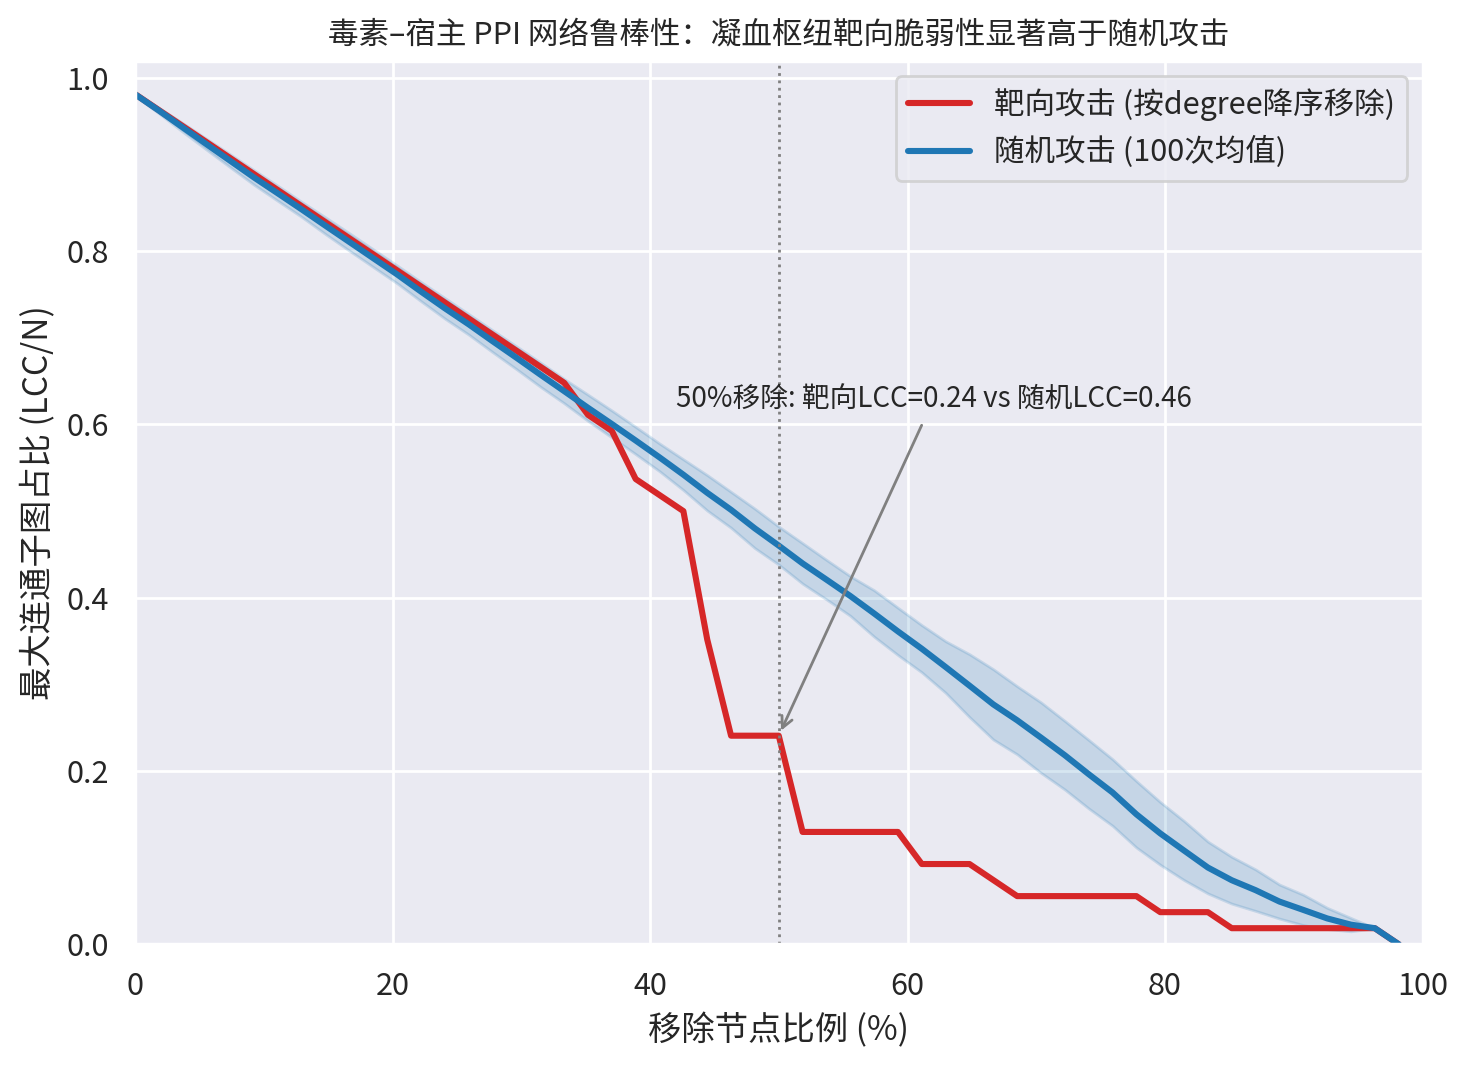
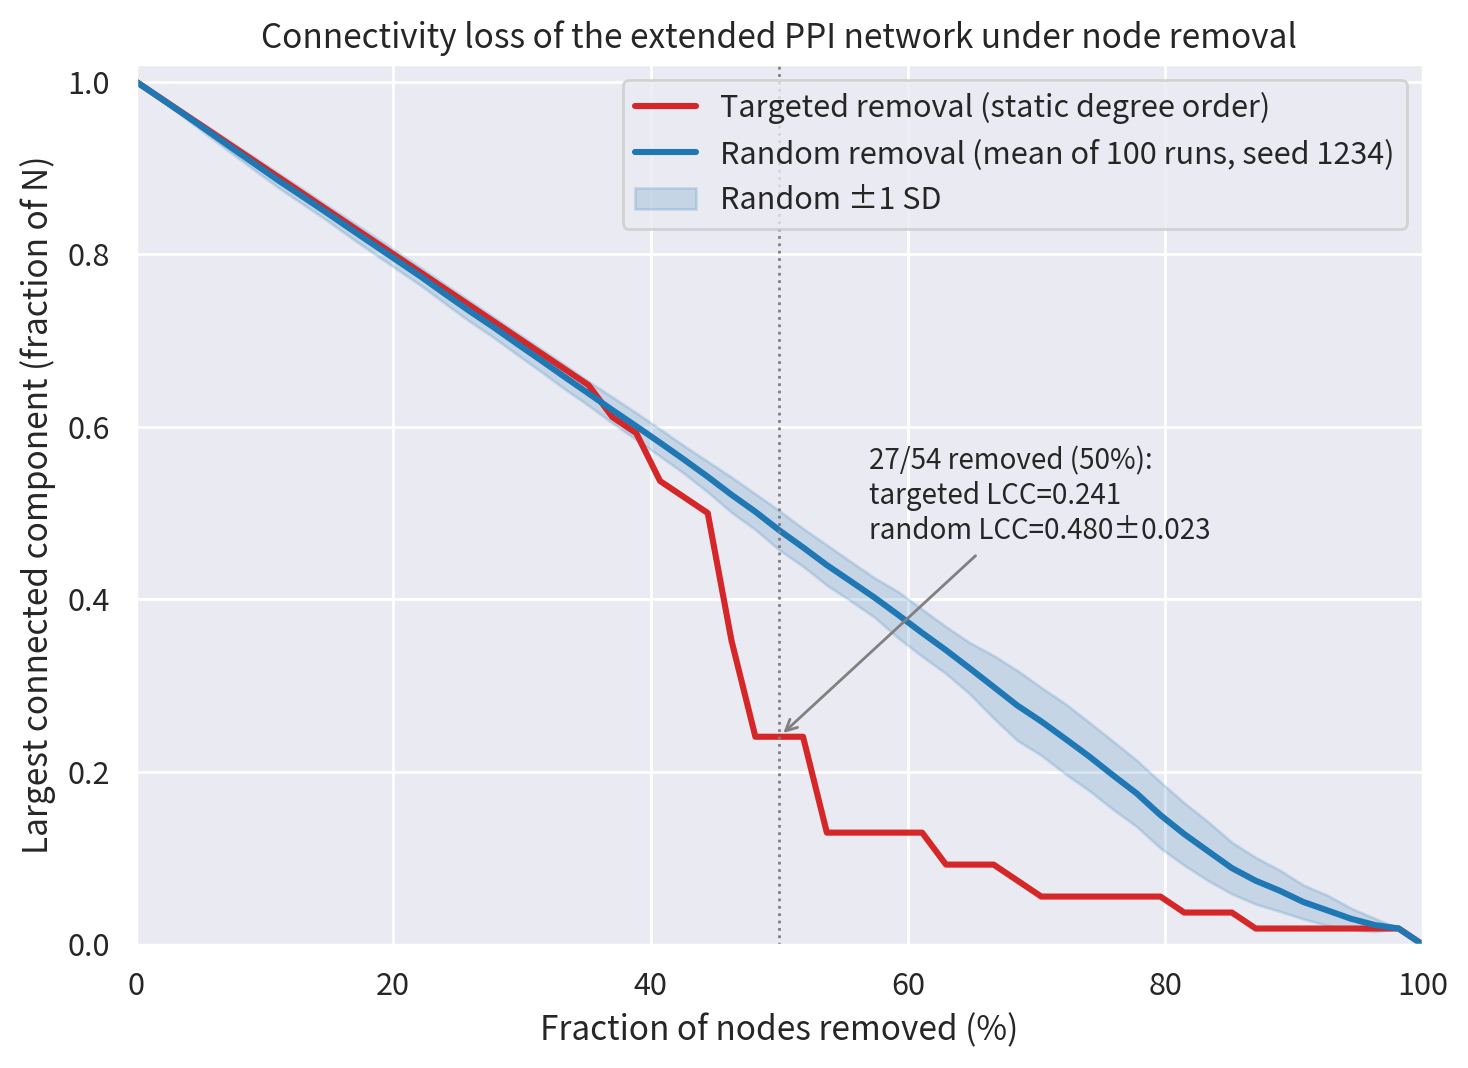
Add files via upload

diff --git a/04_network/robustness_analysis_v41.py b/04_network/robustness_analysis_v41.py
@@ -1,0 +1,117 @@
+# -*- coding: utf-8 -*-
+"""
+v41 robustness / perturbation analysis of the extended toxin-host PPI layer
+(54 nodes / 321 edges, STRING score >= 0.7).
+
+Corrections vs the pre-v41 script (robustness_analysis.py):
+  1) the curves include k = 0 (no node removed, LCC/N = 1.0) as the first point,
+     so removal fraction 0% maps to index 0 and 50% removal (27 of 54 nodes)
+     maps to index 27 -- the old script dropped the k=0 point and reported the
+     "50%" value at the wrong index;
+  2) figure and JSON state the exact convention: static degree order computed
+     once on the full network, random removals averaged over 100 shuffles
+     (seed 1234).
+
+Outputs (reproducible from this script):
+  04_network/robustness_results_v41.json
+  04_network/figure3c_robustness_v41.png
+"""
+import json, random, sys
+from pathlib import Path
+import numpy as np
+import networkx as nx
+
+BASE = Path(__file__).resolve().parents[1]
+SEED = 1234
+REPEATS = 100
+random.seed(SEED)
+
+# --- read extended-layer PPI (score >= 0.7) ---
+G = nx.Graph()
+with open(BASE / "04_network/ppi_extended61_score700.tsv", encoding="utf-8-sig") as f:
+    f.readline()
+    for line in f:
+        parts = line.strip().split("\t")
+        if len(parts) >= 2:
+            G.add_edge(parts[0], parts[1])
+N0 = G.number_of_nodes()
+print(f"network: {N0} nodes, {G.number_of_edges()} edges")
+
+def lcc_frac(g):
+    return max((len(c) for c in nx.connected_components(g)), default=0) / N0
+
+# --- 1) targeted attack: static degree order computed once on the full network ---
+order = [n for n, _ in sorted(G.degree(), key=lambda x: -x[1])]
+targeted = [1.0]  # k = 0
+g = G.copy()
+for n in order:
+    g.remove_node(n)
+    targeted.append(lcc_frac(g))
+
+# --- 2) random attack: REPEATS shuffles, mean +/- SD ---
+rand_curves = []
+for _ in range(REPEATS):
+    g = G.copy()
+    nodes = list(g.nodes())
+    random.shuffle(nodes)
+    curve = [1.0]  # k = 0
+    for n in nodes:
+        g.remove_node(n)
+        curve.append(lcc_frac(g))
+    rand_curves.append(curve)
+rand_mean = np.mean(rand_curves, axis=0)
+rand_std = np.std(rand_curves, axis=0)
+
+# --- 3) value at 50% removal (27 of 54 nodes) ---
+k50 = N0 // 2  # 27
+print(f"at 50% removal (k={k50}): targeted LCC={targeted[k50]:.4f} "
+      f"vs random LCC={rand_mean[k50]:.4f}+-{rand_std[k50]:.4f}")
+
+json.dump({
+    "n_nodes": N0,
+    "n_edges": G.number_of_edges(),
+    "k0_included": True,
+    "removals_k": list(range(N0 + 1)),
+    "targeted_curve": targeted,
+    "random_mean": rand_mean.tolist(),
+    "random_std": rand_std.tolist(),
+    "at_50pct": {"k_removed": k50,
+                 "targeted": round(targeted[k50], 4),
+                 "random": round(float(rand_mean[k50]), 4),
+                 "random_sd": round(float(rand_std[k50]), 4)},
+    "seed": SEED,
+    "repeats": REPEATS,
+    "degree_order": "static, computed once on the full network",
+}, open(BASE / "04_network/robustness_results_v41.json", "w", encoding="utf-8"),
+    ensure_ascii=False, indent=1)
+
+# --- 4) figure ---
+sys.path.insert(0, str(Path(sys.executable).parent.parent.parent))
+from daimon_runtime import setup_plot
+setup_plot()
+import matplotlib
+matplotlib.use('Agg')
+import matplotlib.pyplot as plt
+
+x = np.arange(N0 + 1) / N0 * 100
+fig, ax = plt.subplots(figsize=(7.5, 5.5), dpi=200)
+ax.plot(x, targeted, color="#D62728", lw=2.2, label="Targeted removal (static degree order)")
+ax.plot(x, rand_mean, color="#1F77B4", lw=2.2,
+        label=f"Random removal (mean of {REPEATS} runs, seed {SEED})")
+ax.fill_between(x, rand_mean - rand_std, rand_mean + rand_std,
+                color="#1F77B4", alpha=0.18, label="Random \u00b11 SD")
+ax.axvline(50, color="gray", ls=":", lw=1)
+ax.annotate(f"{k50}/{N0} removed (50%):\ntargeted LCC={targeted[k50]:.3f}\n"
+            f"random LCC={rand_mean[k50]:.3f}\u00b1{rand_std[k50]:.3f}",
+            xy=(50, targeted[k50]), xytext=(57, 0.47), fontsize=10,
+            arrowprops=dict(arrowstyle="->", color="gray"))
+ax.set_xlabel("Fraction of nodes removed (%)")
+ax.set_ylabel("Largest connected component (fraction of N)")
+ax.set_title("Connectivity loss of the extended PPI network under node removal")
+ax.legend()
+ax.set_xlim(0, 100)
+ax.set_ylim(0, 1.02)
+fig.tight_layout()
+out = BASE / "04_network/figure3c_robustness_v41.png"
+fig.savefig(out, bbox_inches="tight")
+print("figure:", out)
